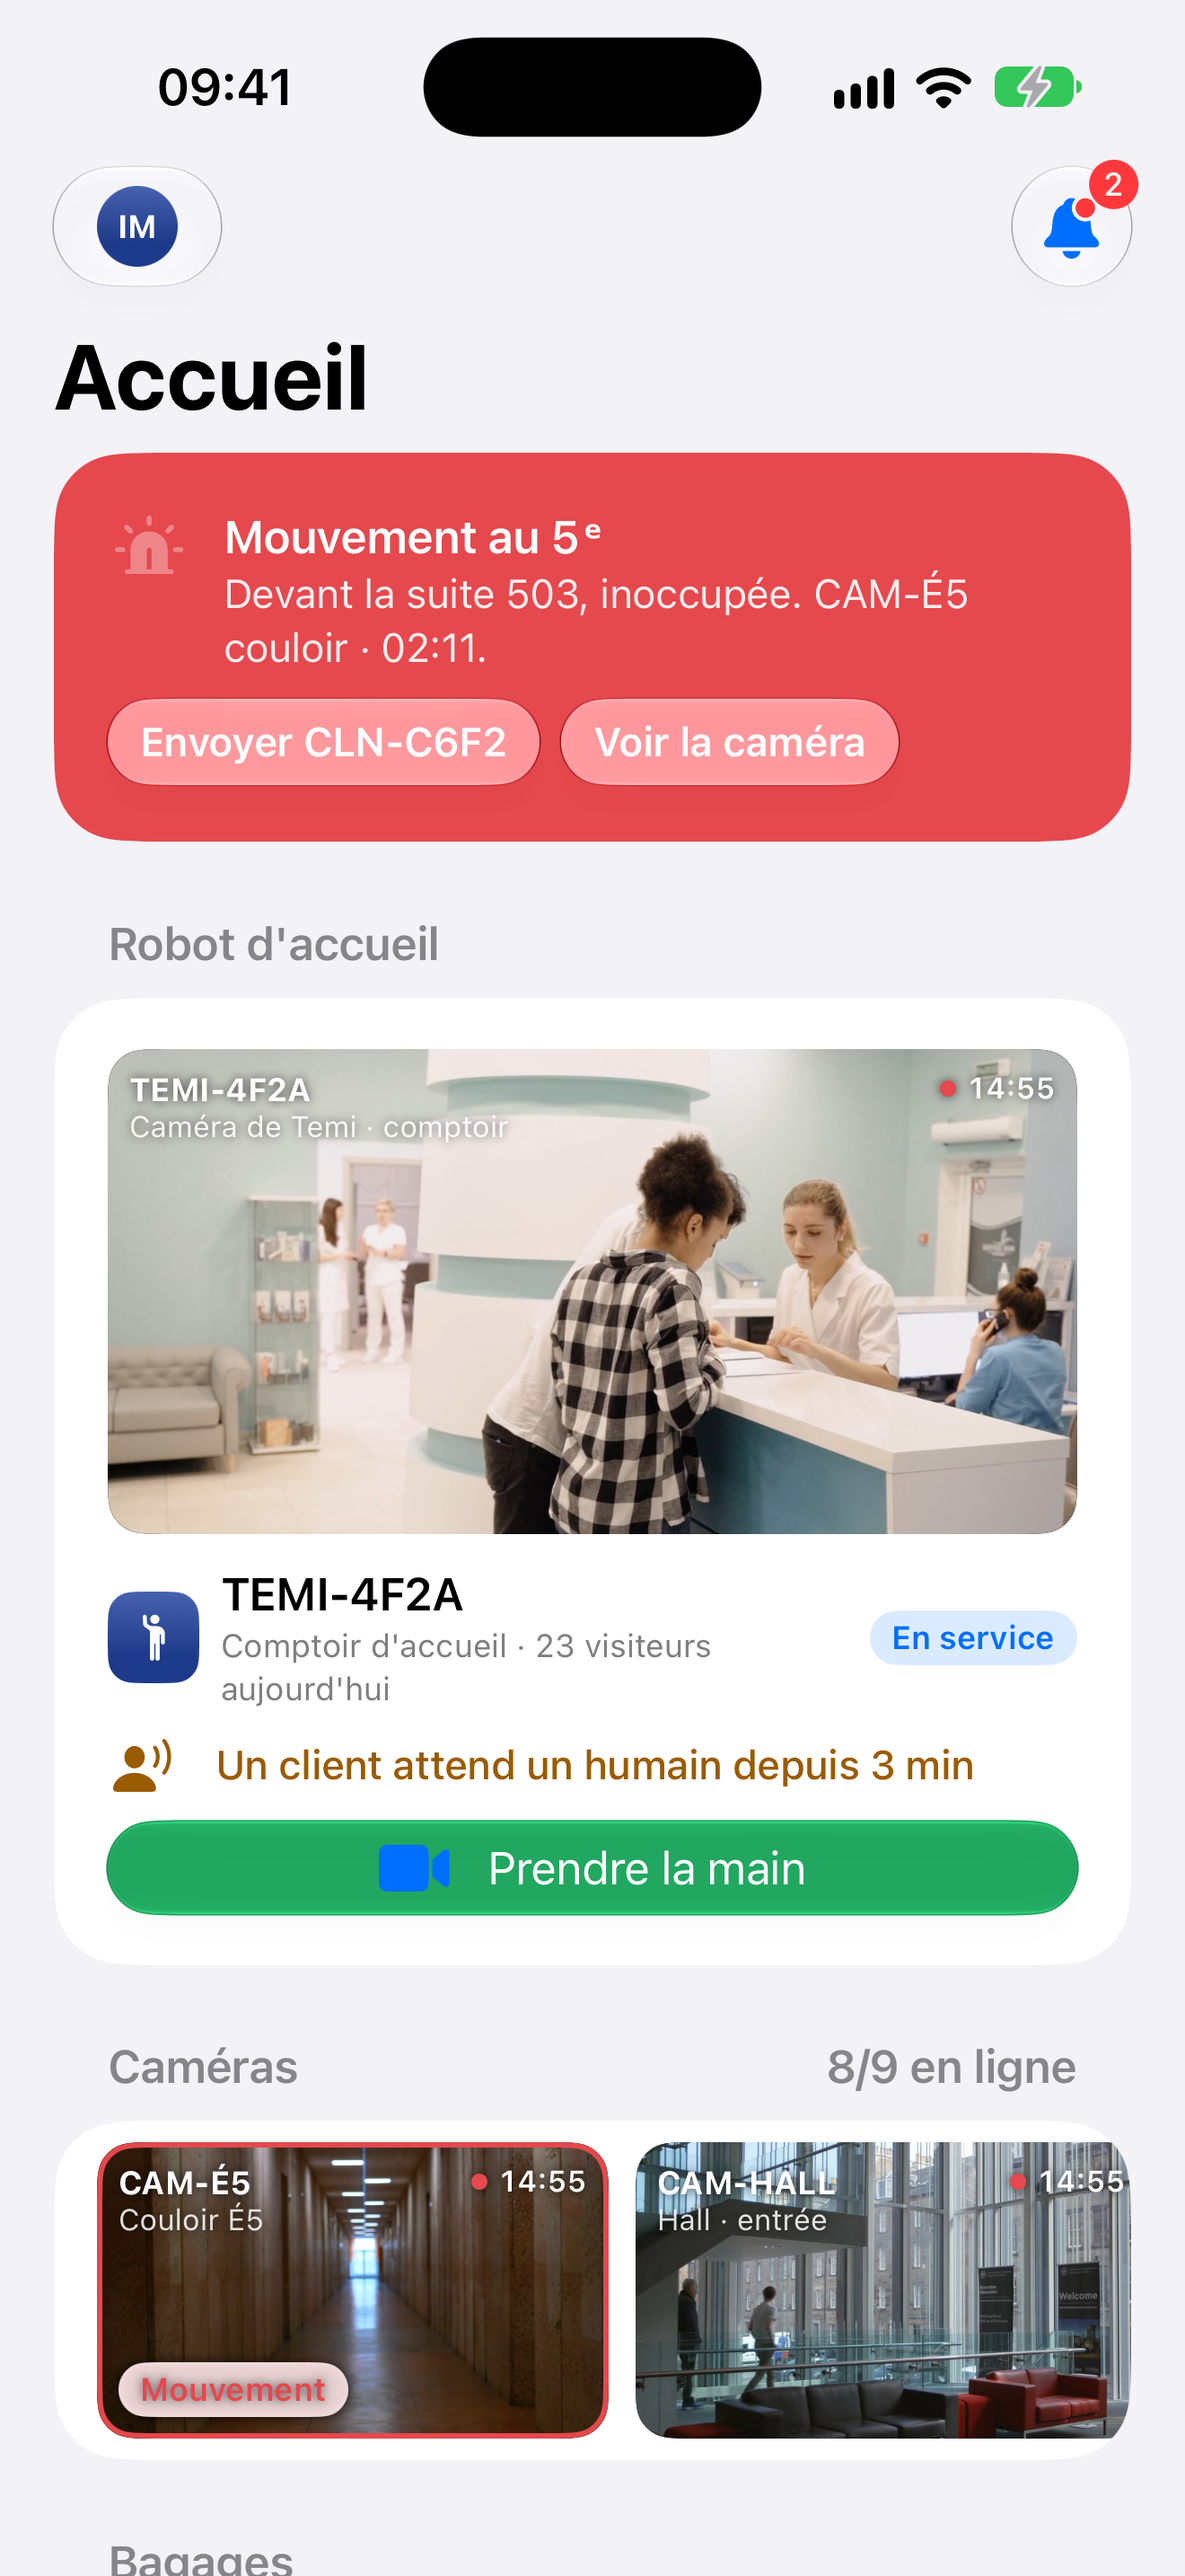
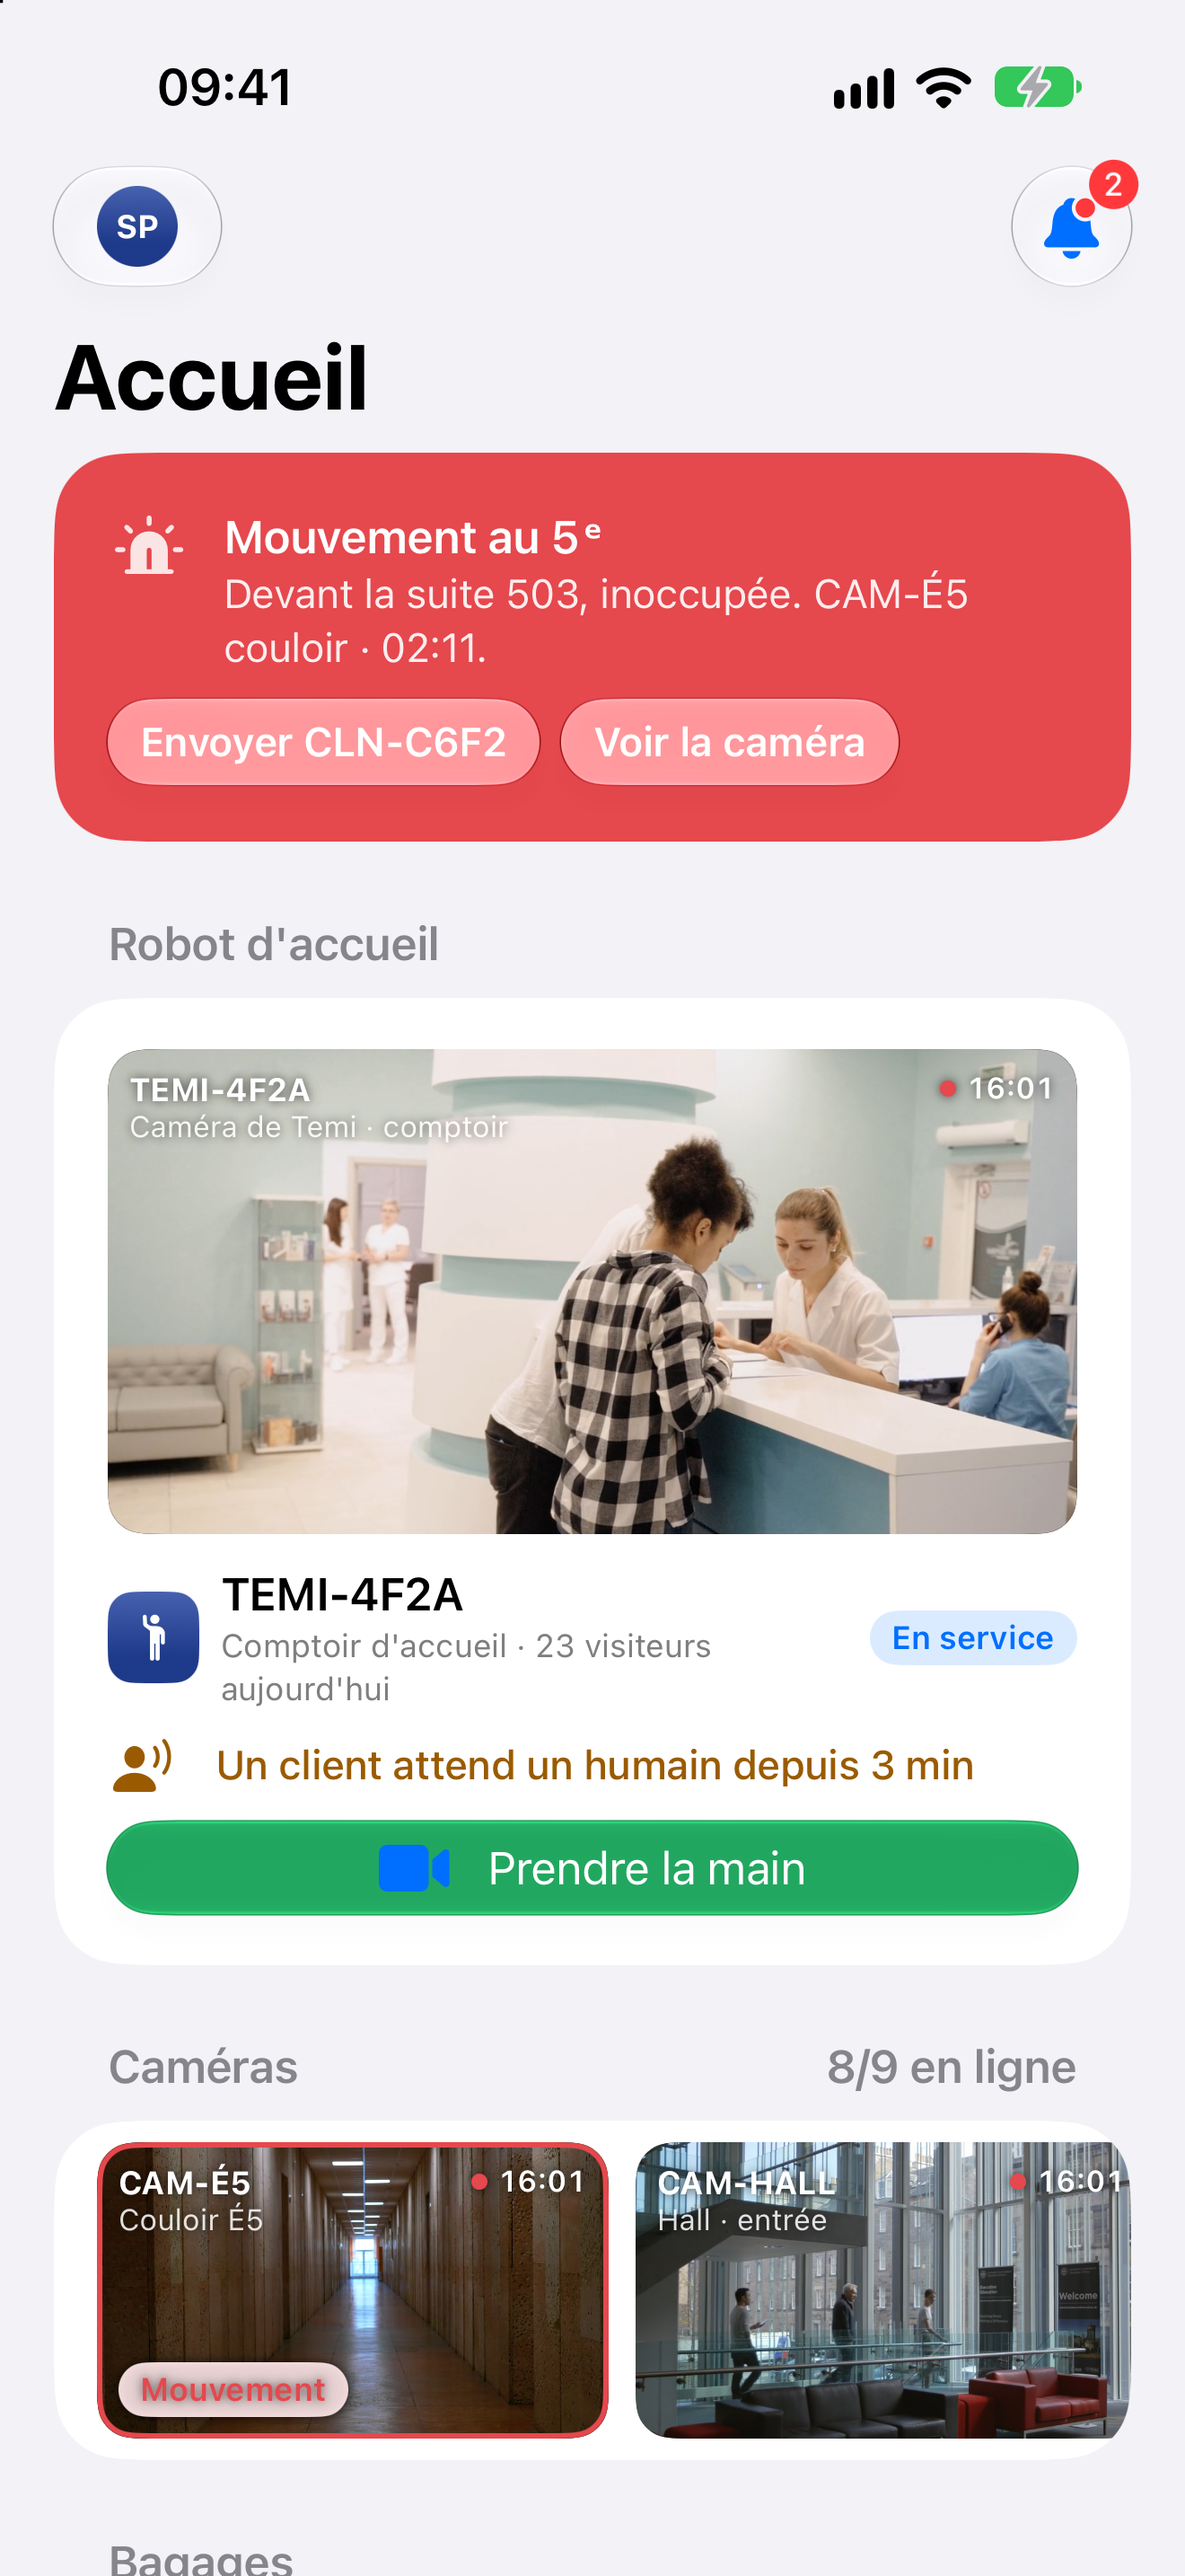
feat(deck): cleaning slide shows the real companion app, step by step
The housekeeping screen gets a 'Mes appartements' section telling the deck's story (app. 203:
departure, Inès badges in, the robot starts on its own, ready; app. 306 occupied, no robot).
-hkStep sets the step for screenshots; the slide swaps the five real screenshots in time with
its scene. Inès is now the housekeeper in the app, Sarah the receptionist.

diff --git a/presentation.html b/presentation.html
@@ -292,24 +292,6 @@
 
   /* ============ 8 · Cleaning ============ */
   .men { display: grid; grid-template-columns: 330px 1fr; gap: 28px; align-items: center; }
-  .phone { width: 330px; height: 640px; border-radius: 48px; background: #12131a; padding: 14px; box-shadow: 0 30px 70px -20px rgba(18,19,26,.45); position: relative; }
-  .phone .scr { position: relative; height: 100%; border-radius: 36px; background: var(--bg); overflow: hidden; padding: 46px 16px 16px; display: flex; flex-direction: column; gap: 12px; }
-  .phone .notch { position: absolute; top: 12px; left: 50%; width: 100px; height: 26px; margin-left: -50px; background: #12131a; border-radius: 14px; z-index: 2; }
-  .phone h6 { font-size: 22px; font-weight: 800; letter-spacing: -.02em; }
-  .phone .who { font-size: 15px; color: var(--muted); margin-top: -8px; }
-  .apt { background: #fff; border-radius: 18px; padding: 14px; display: flex; flex-direction: column; gap: 10px; border: 1px solid var(--line); transition: border-color .3s, box-shadow .3s; }
-  .apt .h { display: flex; align-items: center; gap: 8px; font-size: 18px; font-weight: 700; }
-  .apt .h .chip { margin-left: auto; height: 26px; font-size: 13px; padding: 0 10px; }
-  .apt small { font-size: 14px; color: var(--muted); }
-  .apt .go { height: 46px; border-radius: 12px; background: var(--loop); color: #fff; font-size: 17px; font-weight: 700; display: flex; align-items: center; justify-content: center; gap: 8px; transition: transform .15s; }
-  .apt .go.dim { background: #e3e6ec; color: var(--muted); }
-  .apt .go.press { transform: scale(.95); }
-  .apt .bar { height: 8px; border-radius: 9px; background: #eef0f3; overflow: hidden; }
-  .apt .bar i { display: block; height: 100%; width: 0; background: var(--sky); border-radius: 9px; }
-  .apt.live { border-color: var(--sky); box-shadow: 0 0 0 3px var(--sky-soft); }
-  .toast { position: absolute; left: 12px; right: 12px; bottom: 16px; background: var(--ink); color: #fff; border-radius: 16px; padding: 14px 16px; font-size: 15px; line-height: 1.4; display: flex; gap: 10px; opacity: 0; transform: translateY(20px); transition: opacity .4s, transform .4s var(--ease); z-index: 3; }
-  .toast.on { opacity: 1; transform: none; }
-  .toast i { flex: none; width: 24px; height: 24px; border-radius: 50%; background: var(--red); display: grid; place-items: center; font-style: normal; font-weight: 800; }
   .aptplan { position: relative; }
   .aptplan .win-body { position: relative; padding: 20px 24px; }
   .flat { position: relative; width: 600px; height: 420px; margin: 0 auto; }
@@ -982,26 +964,7 @@
       </div>
     </div>
     <div class="men rise" style="--d:.2s">
-      <div class="phone">
-        <div class="notch"></div>
-        <div class="scr">
-          <h6>Mes appartements</h6>
-          <div class="who">Inès · É2 · mardi</div>
-          <div class="apt" id="apt-203">
-            <div class="h">App. 203 <span class="chip a" id="apt-203-chip">Départ 11:00</span></div>
-            <small id="apt-203-sub">Prochaine arrivée à 16 h</small>
-            <div class="bar"><i id="apt-203-bar"></i></div>
-            <div class="go" id="apt-203-go"><svg width="20" height="20"><use href="#i-brush"/></svg><span id="apt-203-go-t">Lancer le robot</span></div>
-          </div>
-          <div class="apt" id="apt-306">
-            <div class="h">App. 306 <span class="chip s">Occupé</span></div>
-            <small>M. Okafor jusqu'au 5 oct.</small>
-            <div class="go dim" id="apt-306-go"><svg width="20" height="20"><use href="#i-brush"/></svg>Lancer le robot</div>
-          </div>
-          <div class="toast" id="men-toast"><i>!</i><div><b>Pas de robot</b><br>Inès passe au 306, mais il est occupé : le robot reste à sa base.</div></div>
-        </div>
-        <svg class="cursor" id="men-cur"><use href="#i-cursor"/></svg>
-      </div>
+      <div class="iph"><img id="men-shot" src="assets/ios/deck/menage-0.jpg" alt="App compagnon · Mes appartements"></div>
       <div class="win aptplan">
         <div class="win-bar"><span class="dots"><i></i><i></i><i></i></span>App. 203 <span class="crumb">/ CLN-2D84</span><span class="r"><span class="pct" id="men-pct">0 %</span><span class="chip n" id="men-state">À la base</span></span></div>
         <div class="win-body">
@@ -1483,6 +1446,8 @@ const SCENES = {
   menage: {
     dur: 14500,
     once() {
+      // Real companion-app screenshots, one per step of the story: preload them so the swaps never flash
+      [0, 1, 2, 3, 4].forEach(n => { new Image().src = `assets/ios/deck/menage-${n}.jpg`; });
       // Boustrophedon pass over the free floor, under the bed, then back to the base
       const pts = [[552, 374], [360, 374]];
       for (let y = 374, dir = -1; y >= 52; y -= 34, dir *= -1) pts.push(dir < 0 ? [130, y] : [360, y], dir < 0 ? [130, y - 34 < 52 ? y : y - 34] : [360, y - 34 < 52 ? y : y - 34]);
@@ -1496,40 +1461,28 @@ const SCENES = {
       const t = $('men-trail'), r = $('men-robot');
       t.style.transition = 'none'; t.style.strokeDasharray = this.len; t.style.strokeDashoffset = this.len;
       r.style.transition = 'none'; r.style.offsetDistance = '0%'; r.offsetWidth;
-      $('apt-203').classList.remove('live'); $('apt-203-bar').style.transition = 'none'; $('apt-203-bar').style.width = '0';
-      $('apt-203-chip').className = 'chip a'; $('apt-203-chip').textContent = 'Départ 11:00';
-      $('apt-203-sub').textContent = 'Prochaine arrivée à 16 h';
-      $('apt-203-go').style.display = ''; $('apt-203-go').classList.add('dim'); $('apt-203-go-t').textContent = 'Démarre à l\'arrivée d\'Inès';
-      $('men-toast').classList.remove('on'); $('men-pct').textContent = '0 %';
+      $('men-shot').src = 'assets/ios/deck/menage-0.jpg'; $('men-pct').textContent = '0 %';
       $('men-state').className = 'chip n'; $('men-state').textContent = 'À la base';
-      const c = $('men-cur'); c.className = 'cursor'; c.style.transition = 'none'; c.style.left = '250px'; c.style.top = '560px'; c.offsetWidth; c.style.transition = '';
     },
     run() {
       const DUR = 7000;
       // Inès badges in with Salto: Loop sees her enter the apartment and starts the robot, no button
-      at(900, () => {
-        $('apt-203-chip').className = 'chip b'; $('apt-203-chip').textContent = 'Inès est là';
-        $('apt-203-sub').textContent = '13:42 · Inès entre (badge Salto)';
-      });
+      at(900, () => { $('men-shot').src = 'assets/ios/deck/menage-1.jpg'; });
       at(1700, () => {
-        $('apt-203-go').classList.remove('dim'); $('apt-203-go-t').textContent = 'Robot lancé tout seul';
-        $('apt-203').classList.add('live'); $('apt-203-chip').className = 'chip s'; $('apt-203-chip').textContent = 'En ménage';
+        $('men-shot').src = 'assets/ios/deck/menage-2.jpg';
         $('men-state').className = 'chip s'; $('men-state').textContent = 'En ménage';
         const t = $('men-trail'), r = $('men-robot');
         t.style.transition = `stroke-dashoffset ${DUR}ms linear`; t.style.strokeDashoffset = 0;
         r.style.transition = `offset-distance ${DUR}ms linear`; r.style.offsetDistance = '100%';
-        $('apt-203-bar').style.transition = `width ${DUR}ms linear`; $('apt-203-bar').style.width = '100%';
         const t0 = performance.now();
         const tick = () => { const k = Math.min(1, (performance.now() - t0) / DUR); $('men-pct').textContent = Math.round(k * 100) + ' %'; if (k < 1) at(100, tick); };
         tick();
       });
       at(1700 + DUR, () => {
-        $('apt-203-chip').className = 'chip g'; $('apt-203-chip').textContent = 'Prêt';
-        $('apt-203-sub').textContent = 'Prêt à 13:58 · Greg prévenu';
-        $('apt-203-go').style.display = 'none';
+        $('men-shot').src = 'assets/ios/deck/menage-3.jpg';
         $('men-state').className = 'chip g'; $('men-state').textContent = 'Terminé · retour base';
       });
-      at(10000, () => $('men-toast').classList.add('on'));
+      at(10000, () => { $('men-shot').src = 'assets/ios/deck/menage-4.jpg'; });
     },
   },
 

diff --git a/ios/Loop/Views/Roles/HousekeepingHome.swift b/ios/Loop/Views/Roles/HousekeepingHome.swift
@@ -1,12 +1,23 @@
 import SwiftUI
 
-/// Housekeeping agent: the day's progress, the stuck robot, what is left for a human, floor by floor
+/// Housekeeping agent: her apartments (the robot starts when she badges in), the day's progress, the stuck robot,
+/// what is left for a human, floor by floor
 struct HousekeepingHome: View {
     @State private var onMyWay = false
     @State private var tasks = HKTask.today
+    /// Story of app. 203, as on the deck: 0 departure, 1 Inès badges in, 2 robot cleaning, 3 ready, 4 refused at 306.
+    /// Tap the 203 card to move on; `-hkStep n` starts at a given step (screenshots).
+    @State private var step = UserDefaults.standard.integer(forKey: "hkStep")
 
     var body: some View {
         List {
+            Section {
+                apartment203
+                apartment306
+            } header: {
+                Text("Mes appartements · É2")
+            }
+
             Section {
                 HStack(spacing: 16) {
                     Gauge(value: 0.68) {
@@ -86,6 +97,68 @@ struct HousekeepingHome: View {
                 }
             }
         }
+    }
+}
+
+extension HousekeepingHome {
+    private var apartment203: some View {
+        VStack(alignment: .leading, spacing: 10) {
+            HStack {
+                Text("App. 203").font(.headline)
+                Spacer()
+                switch step {
+                case 0: Pill(text: "Départ 11:00", level: .warn)
+                case 1: Pill(text: "Inès est là", level: .info)
+                case 2: Pill(text: "En ménage", level: .info, symbol: "bubbles.and.sparkles.fill")
+                default: Pill(text: "Prêt", level: .ok, symbol: "checkmark")
+                }
+            }
+            Text(step == 0 ? "Prochaine arrivée à 16 h" : step == 1 ? "13:42 · Inès entre (badge Salto)" : step == 2 ? "CLN-2D84 fait les sols pendant que vous faites le lit" : "Prêt à 13:58 · Greg prévenu")
+                .font(.subheadline).foregroundStyle(.secondary)
+            if step == 2 { Meter(value: 0.46, color: .menage) }
+            if step < 3 {
+                Label(step == 0 ? "Démarre à l'arrivée d'Inès" : step == 1 ? "Lancement du robot…" : "Robot lancé tout seul", systemImage: "bubbles.and.sparkles.fill")
+                    .font(.subheadline.weight(.semibold))
+                    .frame(maxWidth: .infinity, minHeight: 40)
+                    .foregroundStyle(step == 0 ? Color.secondary : .white)
+                    .background(step == 0 ? Color(.tertiarySystemFill) : Color.blueLoop, in: .rect(cornerRadius: 12))
+            }
+        }
+        .padding(.vertical, 4)
+        .contentShape(.rect)
+        .onTapGesture { withAnimation { step = (step + 1) % 5 } }
+    }
+
+    private var apartment306: some View {
+        VStack(alignment: .leading, spacing: 10) {
+            HStack {
+                Text("App. 306").font(.headline)
+                Spacer()
+                Pill(text: "Occupé", level: .idle, symbol: "person.fill")
+            }
+            Text("M. Okafor jusqu'au 5 oct.").font(.subheadline).foregroundStyle(.secondary)
+            if step == 4 {
+                Label {
+                    VStack(alignment: .leading, spacing: 2) {
+                        Text("Pas de robot").font(.subheadline.weight(.bold))
+                        Text("Vous entrez au 306, mais il est occupé : le robot reste à sa base.").font(.caption)
+                    }
+                } icon: {
+                    Image(systemName: "exclamationmark.circle.fill").font(.title3)
+                }
+                .foregroundStyle(.white)
+                .padding(10)
+                .frame(maxWidth: .infinity, alignment: .leading)
+                .background(Color.amberLoop, in: .rect(cornerRadius: 12))
+            } else {
+                Label("Jamais de robot chez un client", systemImage: "hand.raised.fill")
+                    .font(.subheadline.weight(.semibold))
+                    .frame(maxWidth: .infinity, minHeight: 40)
+                    .foregroundStyle(.secondary)
+                    .background(Color(.tertiarySystemFill), in: .rect(cornerRadius: 12))
+            }
+        }
+        .padding(.vertical, 4)
     }
 }
 

diff --git a/ios/Loop/Views/Roles/ManagerHome.swift b/ios/Loop/Views/Roles/ManagerHome.swift
@@ -60,9 +60,9 @@ struct ManagerHome: View {
             }
 
             Section("Équipe en poste") {
-                person("Inès Moreau", "Accueil et sécurité", "IM", .accueil, "Au comptoir")
+                person("Sarah Petit", "Accueil et sécurité", "SP", .accueil, "Au comptoir")
                 person("Hery Rakoto", "Réception de nuit · Madagascar", "HR", .bagages, "À distance")
-                person("Léa Martin", "Entretien", "LM", .menage, "É3 · app. 307")
+                person("Inès Moreau", "Entretien", "IM", .menage, "É2 · app. 203")
                 person("Karim Benali", "Technicien", "KB", .amberLoop, "Local technique")
             }
         }

diff --git a/ios/Loop/Model/Role.swift b/ios/Loop/Model/Role.swift
@@ -29,8 +29,8 @@ enum Role: String, CaseIterable, Identifiable {
 
     var person: String {
         switch self {
-        case .reception: "Inès Moreau"
-        case .housekeeping: "Léa Martin"
+        case .reception: "Sarah Petit"
+        case .housekeeping: "Inès Moreau"
         case .technician: "Karim Benali"
         case .it: "Thomas Leroy"
         case .manager: "Michael Durand"
